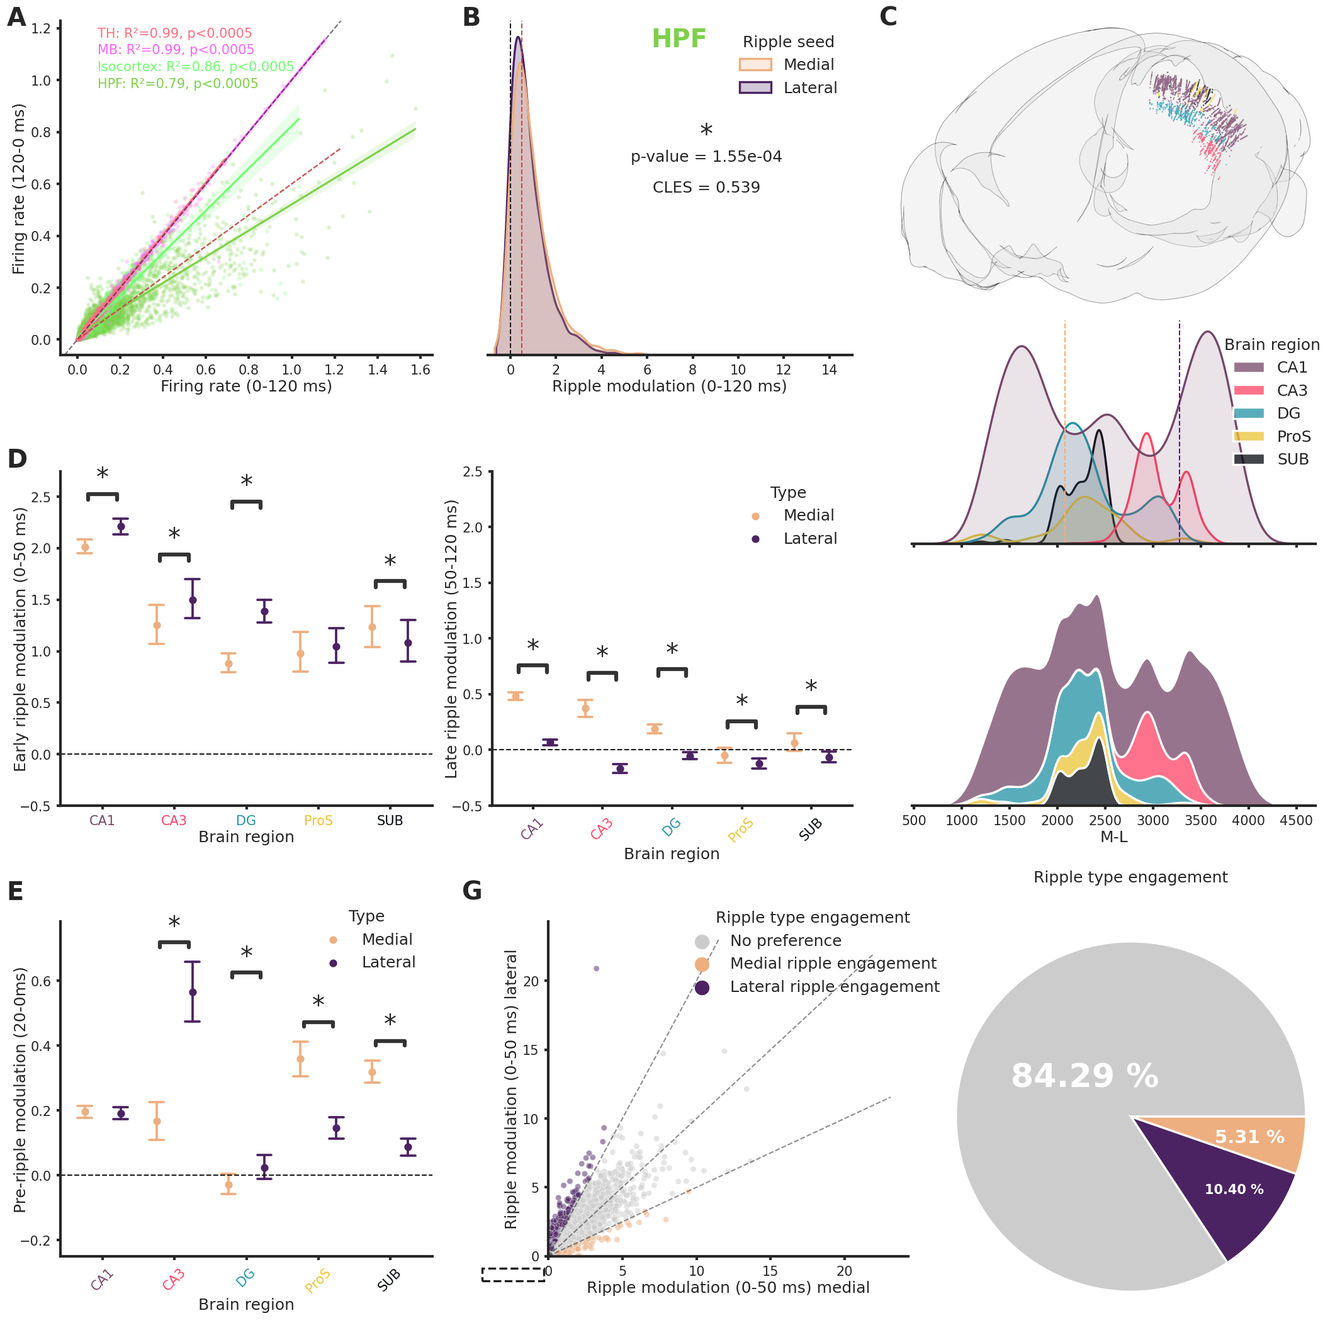
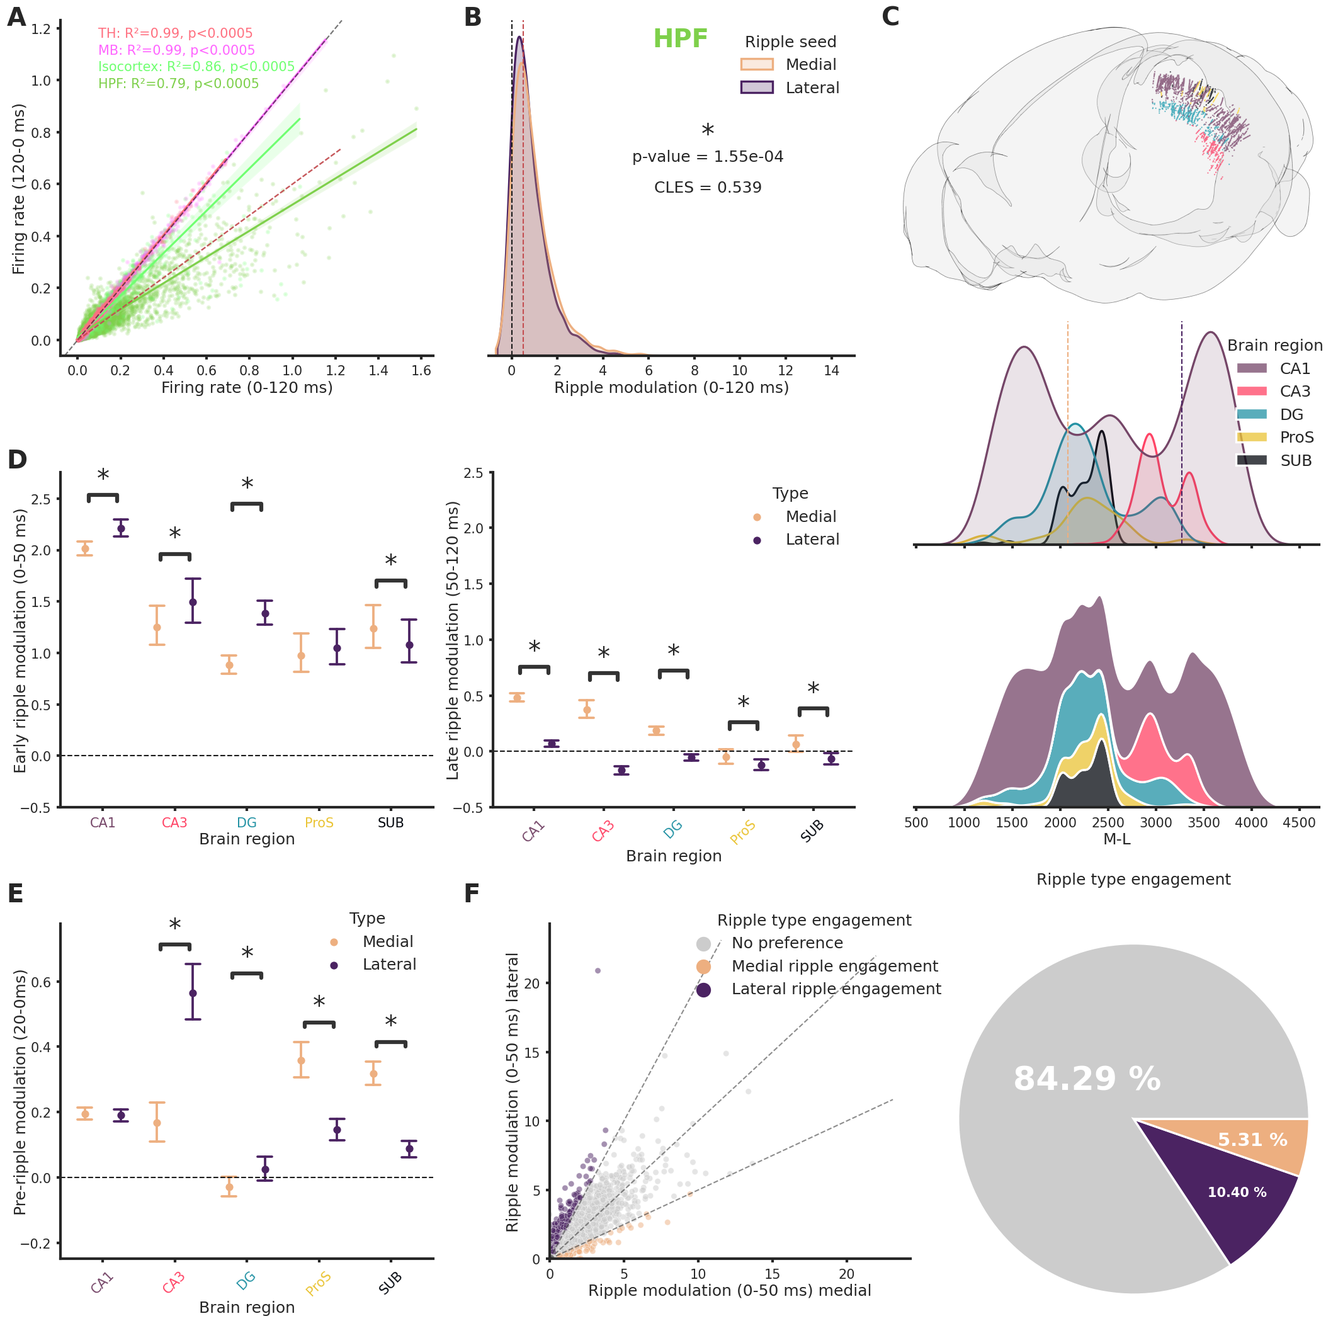
update

diff --git a/Manuscript/results.py b/Manuscript/results.py
@@ -169,33 +169,36 @@ results = {"Distance explains most of the ripple strength correlation variabilit
            f'{round(ripple_mod_sem.loc["Isocortex"]["No engagement"] *100, 2)} %))  while the majority of hippocampal (HPF) neurons showed ripple modulation. '
            f'In both cases the baseline spiking rate explained a big portion of the variance in spiking rate during ripples (Figure 5A).'
            f'(HPF: {round(100-ripple_mod_mean.loc["HPF"]["No engagement"]*100, 2)} ± {round(ripple_mod_sem.loc["HPF"]["No engagement"] *100, 2)} %). Neurons in the cortex'
-           f' that were modulated (at least 50% increase) by both medial and lateral ripples tended to be located in deeper layers, '
+           f' that were both modulated by medial and lateral ripples were generally found in deeper layers, '
            f'whereas neurons modulated more strongly by medial ripples were'
-           f' recorded more superficially. Only a small number of cortical neurons exhibited greater engagement in association with lateral ripples (Supplementary Figure 14). '
+           f' also found in more superficial layers. Only a small number of cortical neurons exhibited greater engagement in association with lateral ripples (Supplementary Figure 14). '
            f' The relationship between'
-           f' baseline spiking and spiking during ripples was similar in medial and lateral ripples (Supplementary Figure 15). Modulation '
-           f'by medial and lateral ripples was significantly different in hippocampal neurons in a 120 ms window post-ripple start altough with a '
-           f'only modest effect size. A stronger effect was observed in the 50-120 ms window, here medial ripples had a notably stronger '
-           f'modulatory effect (Supplementary Figure 16A). A significant difference was also observed in cortical neurons and in TH, also here medial ripples were observed '
-           f'to induce stronger modulation (Supplementary Figure 16B). To gain insight into the mechanism underlying differences between medial and lateral ripples '
-           f'we focused our analysis on modulation in the early (0-50 ms) and late phase (50-120 ms) in different hippocampal subfield (Figure 5C). In the early phase '
-           f'we found a significantly stronger engagement of the dentate gyrus area (DG) and weaker engagement of the subiculum (SUB) by lateral ripples. '
-           f'More differences were found in the late phase: here CA1, CA3, DG and SUB were all more strongly modulated by medial ripples. Clusters recorded in '
-           f'these different brain regions were not homogeneously distributed along the M-L axis therefore potentially influencing the ripple modulation, for example, '
-           f'it is plausible that neurons in close proximity to the medial section may be more susceptible to the influence of medial ripples. To test this hypothesis, '
-           f'we determined the extent to which the variance in modulation can be attributed to the M-L axis position. '
-           f'Our observed that during the early and late phases, the M-L position explained a substantial proportion '
+           f' baseline spiking and spiking during ripples was similar in medial and lateral ripples (Supplementary Figure 15). '
+           f'This similarity accounted for most of the variability observed in all cases. '
+           f'There was a significant difference in modulation of hippocampal neurons by medial and lateral ripples within a 120 ms window after the start of the ripple event. '
+           f'However, the effect size was modest. A stronger effect was observed in the 50-120 ms window, here medial ripples had a notably stronger '
+           f'modulatory effect (Supplementary Figure 16A). Significant differences were also observed in cortical neurons and in TH, with medial ripples '
+           f'inducing stronger modulation (Supplementary Figure 16B). To understand the mechanism underlying these differences between medial and lateral ripples '
+           f'we focused on modulation in the early (0-50 ms) and late phase (50-120 ms) in various hippocampal subfield (Figure 5C). In the early phase '
+           f'we found a significantly stronger engagement of the dentate gyrus (DG), CA1 and CA3 areas and weaker engagement of the subiculum (SUB) by lateral ripples. '
+           f'The late phase analysis revealed further differences, as CA1, CA3, DG, prosubiculum (ProS), and SUB subfields all displayed stronger modulation in response to medial ripples '
+           f'(Figure 5D). '
+           f'The clusters recorded across these various brain regions were not uniformly distributed along the M-L axis, which may have influenced the observed ripple modulation. '
+           f'For instance, it is conceivable that neurons located in closer proximity to the medial section may be more susceptible to the effects of medial ripples. '
+           f'To examine this hypothesis, we evaluated the degree to which variance in modulation could be attributed to the M-L axis position.'
+           f'We observed that during the early and late phases, the M-L position explained a substantial proportion '
            f'of the variance in modulation in CA1 (early: {round(r_sq_ca1.loc["Diff ripple modulation (0-50 ms)", "M-L"]*100, 2)} %, late: '
            f'{round(r_sq_ca1.loc["Diff ripple modulation (50-120 ms)", "M-L"]*100, 2)} %), but only a small proportion in CA3 (early: {round(r_sq_ca3.loc["Diff ripple modulation (0-50 ms)", "M-L"]*100, 2)} %, '
-           f'late: {round(r_sq_ca3.loc["Diff ripple modulation (50-120 ms)", "M-L"]*100, 2)} %) and SUB '
+           f'late: {round(r_sq_ca3.loc["Diff ripple modulation (50-120 ms)", "M-L"]*100, 2)} %) ProS '
+           f'(late: {round(r_sq_pros.loc["Diff ripple modulation (50-120 ms)", "M-L"]*100, 2)} %) and SUB '
            f'(early: {round(r_sq_sub.loc["Diff ripple modulation (0-50 ms)", "M-L"]*100, 2)} %, '
-           f'late: {round(r_sq_sub.loc["Diff ripple modulation (50-120 ms)", "M-L"]*100, 2)} %). The situation was mixed in DG, with a much bigger effect of M-L position'
-           f'in the late phase '
+           f'late: {round(r_sq_sub.loc["Diff ripple modulation (50-120 ms)", "M-L"]*100, 2)} %). In the DG subfield, the situation was mixed, with a notably greater impact '
+           f'of M-L position observed during the late phase '
            f'(early: {round(r_sq_dg.loc["Diff ripple modulation (0-50 ms)", "M-L"]*100, 2)} %, '
            f'late: {round(r_sq_dg.loc["Diff ripple modulation (50-120 ms)", "M-L"]*100, 2)} %).'
            f'Additionally, '
            f'we found that prior to the onset of ripples, medial ripples induced stronger modulation in ProS and SUB, and weaker modulation in CA3 '
-           f'and DG when compared to lateral ripples. In this window, the M-L position explained only a minimal proportion of the variance '
+           f'and DG when compared to lateral ripples (Figure 5E). In this window, the M-L position explained only a minimal proportion of the variance '
            f'in ProS ({round(r_sq_pros.loc["Diff pre-ripple modulation (20-0 ms)", "M-L"]*100, 2)} %), SUB '
            f'({round(r_sq_sub.loc["Diff pre-ripple modulation (20-0 ms)", "M-L"]*100, 2)} %) and CA3 '
            f'({round(r_sq_ca3.loc["Diff pre-ripple modulation (20-0 ms)", "M-L"]*100, 2)} %) but a substantial proportion in DG '
@@ -206,9 +209,15 @@ results = {"Distance explains most of the ripple strength correlation variabilit
            f'To address this question, we identified neurons that exhibited at least a two-fold modulation '
            f'difference for either medial or lateral ripples. Our analysis revealed that the majority of neurons did '
            f'not display a strong preference ({round(autopcts[0]*100,2)} %), whereas {round(autopcts[1]*100,2)} % of neurons responded '
-           f'preferentially to lateral ripples and {round(autopcts[2]*100,2)} % to medial ripples. Hippocampal subfield, however, exhibited '
+           f'preferentially to lateral ripples and {round(autopcts[2]*100,2)} % to medial ripples (Figure 5F). Hippocampal subfield, however, exhibited '
            f'striking differences, specifically, SUB had a negligible proportion of neurons exhibiting a'
            f' preference for medial ripples, while DG exhibited the opposite pattern (Supplementary Figure 19). '
+           f'These results suggest a fundamental difference between medial and lateral ripples in terms of their '
+           f'engagement of brain regions, highlighting that these differences exist even before the ripples are detected. '
+           f'Notably, most of these differences are not explained by the location of the neuron along the M-L axis. '
+           f'This suggests that there are more fundamental differences at play beyond just spatial distance. While the M-L '
+           f'position did explain some of the variance in modulation in certain subfields, such as CA1 and DG, it only accounted '
+           f'for a small proportion of the variance in others, like CA3 and SUB. '
 
 
            }

diff --git a/Manuscript/discussion.py b/Manuscript/discussion.py
@@ -35,12 +35,12 @@ discussion = "Our results show for the first time that strong ripples propagate 
              "Consistent with a duration gradient along the longitudinal axis, the temporal hippocampus has been shown to " \
              "produce shorter ripples both in awake and sleep conditions {Sosa, 2020 #1154}. \n"\
             "What is the reason that enables the septal pole to generate longer ripples? There might be for example underlying electrophysiological" \
-             " differences between the septal and intermediate hippocampus. Looking at units electrophysiological features we found some differences in the waveform shape and " \
-             "duration. We can hypothesize that slower action potentials and, consequentially, " \
+             " differences between the septal and intermediate hippocampus. Upon closer examination of the electrophysiological features of the neurons, " \
+             "we were able to discern significant differences in the shape and duration of their waveform. We can hypothesize that slower action potentials and, consequentially, " \
              "longer refractory periods hinder the ability" \
              " to sustain protracted high frequency spiking. Accordingly, we found an increased firing rate and a smaller waveform duration in putative excitatory " \
-             "neurons of the septal pole. " \
-             "This might contribute to explain the prolonged ripples observed in the septal pole. " \
+             "neurons of the septal pole. Moreover, putative inhibitory neurons in the septal pole showed reduced firing. " \
+             "These differences might contribute to explain the prolonged ripples observed in the septal pole. " \
              "We can also speculate that the neuromodulatory inputs gradient, monoamine fibers have been shown to be stronger in the ventral part {Strange, 2014 #1158}, " \
              "might influence neurons responses. Serotonin {ul Haq, 2016 #1165; Wang, 2015 #1170}, noradrenaline {Ul Haq, 2012 #1166; Novitskaya, 2016 #1171} and acetylcholine {Zhang, 2021 #1167} " \
              "have all been shown to suppress ripples. In accordance with this, some ripples are coupled with a reduced activation of the locus coeruleus" \
@@ -61,5 +61,21 @@ discussion = "Our results show for the first time that strong ripples propagate 
              "Kheirbek, 2013 #1126;McGlinchey, 2018 #1125;Fanselow, 2010 #1150;Maras, 2014 #1130;Bradfield, 2020 #1131;Qin, 2020 #1132}. " \
              "Our results can contribute to explain the specific role of septal hippocampus in memory-demanding tasks with" \
              " its ability of generating particularly long " \
-             "ripples that are able to strongly engage networks in the entire top half of the hippocampal formation for an extended time. " \
+             "ripples that are able to strongly engage networks in the entire top half of the hippocampal formation for an extended time. \n" \
+             "Functional differences between ripples are supported by our finding that the ripple origination point has an influence on the " \
+             "engagement of various hippocampal subfields. Interestingly, even before the onset of ripples, these functional differences can be observed. " \
+             "The results indicate that lateral ripples show significant engagement of CA3, which aligns with the traditional view that CA3 is the primary " \
+             "generator of ripples {Buzsáki, 1986 #1196, Buzsáki, 1989 #1197, Csicsvari, 2000 #1195}. On the other hand, medial ripples demonstrate stronger engagement of ProS and " \
+             "SUB subfields, supporting the more recent " \
+             "hypothesis that output structures in the hippocampus are also capable of generating ripples {Imbrosci, 2021 #1194}. These functional differences may have important " \
+             "implications for our understanding of hippocampal network dynamics and their contribution to memory processing. The fact that different " \
+             "subfields are preferentially engaged during different types of ripples suggests that different ripple patterns may play distinct roles " \
+             "in memory processing. Additionally, the finding that lateral ripples exhibit stronger engagement of CA3 before the onset of ripples suggests " \
+             "that CA3 may play a more critical role in initiating lateral ripples. In contrast, the stronger engagement of ProS and SUB subfields before " \
+             "medial ripple onset suggests that these structures may be involved in the initiation of medial ripples. " \
+             "These differences in ripple initiation and engagement patterns provide insights into the underlying mechanisms of " \
+             "hippocampal network dynamics and their potential role in memory processing. " \
+             "Understanding these differences may shed light on the functional significance " \
+             "of ripples in the brain and their role in memory consolidation and retrieval. \n" \
+
 

diff --git a/Figures/legends_supplementary.py b/Figures/legends_supplementary.py
@@ -101,7 +101,42 @@ legends_supplementary = {
       f"(D) Cumulative distribution plot of waveform duration (p-value={'{:.2e}'.format(p_val_ks_wav_dur_exc)}), firing rate (p-value={'{:.2e}'.format(p_val_ks_fir_rate_exc)}), "
       f"waveform amplitude (p-value={'{:.2e}'.format(p_val_ks_wav_amp_exc)}), waveform repolarization slope (p-value={'{:.2e}'.format(p_val_ks_wav_repolarization_slope_exc)}), "
       f"waveform recovery slope (p-value={'{:.2e}'.format(p_val_ks_wav_rec_slope_exc)}) and waveform peak-through ratio (p-value={'{:.2e}'.format(p_val_ks_wav_PT_ratio_exc)}) grouped by hippocampal section."
-      "Asterisks mean p < 0.05, Kolgomorov-Smirnov test."
+      "Asterisks mean p < 0.05, Kolgomorov-Smirnov test.",
+
+"Supplementary Figure 14. Cortical clusters showing ripple engagement":
+    "In pink clusters showing medial ripples engagement, in purple clusters showing lateral ripples engagement and in red clusters showing "
+    "engagement both in medial and lateral ripples.",
+
+"Supplementary Figure 15. Cortical clusters showing ripple engagement":
+    "(A) Relationship between baseline (120 ms before ripple start) and medial ripple (0-120 ms) firing rate for clusters recorded in  HPF, Isocortex, MB and TH. Dashed black line represents absence of any influence, "
+           "dashed red line represents a 50% increased spiking rate. "
+    "(B) Relationship between baseline (120 ms before ripple start) and lateral ripple (0-120 ms) firing rate for clusters recorded in  HPF, Isocortex, MB and TH. Dashed black line represents absence of any influence, "
+           "dashed red line represents a 50% increased spiking rate. ",
+
+"Supplementary Figure 16. Ripple modulation across HPF, Isocortex, MB and TH":
+"(A) Left: Early (0-50 ms) ripple modulation of hippocampal clusters in response to lateral and medial ripples. Dashed black line represents absence of any influence, "
+           "dashed red line represents a 50% increased spiking rate. Wilcoxon signed-rank test. Right: "
+"Late (50-120 ms) ripple modulation of hippocampal clusters in response to lateral and medial ripples. Dashed black line represents absence of any influence, "
+           "dashed red line represents a 50% increased spiking rate. Wilcoxon signed-rank test. "
+"(B) Ripple modulation of cortical (left), MB (middle) and TH (right) clusters in response to lateral and medial ripples. Dashed black line represents absence of any influence, "
+           "dashed red line represents a 50% increased spiking rate. Wilcoxon signed-rank test",
+
+"Supplementary Figure 17. Ripple modulation across HPF, Isocortex, MB and TH":
+"(A) Ripple modulation in response to lateral and medial ripples during the early  "
+           "ripple phase in cortical (top), MB (middle) and TH (bottom) clusters. Wilcoxon signed-rank test or Student's t-test (if normality established). "
+"(B) Ripple modulation in response to lateral and medial ripples during the late  "
+           "ripple phase in cortical (top), MB (middle) and TH (bottom) clusters. Wilcoxon signed-rank test or Student's t-test (if normality established). ",
+
+"Supplementary Figure 18. Pre-ripple modulation across HPF, Isocortex, MB and TH":
+"(A) Pre-ripple modulation in response to lateral and medial ripples during the early  "
+           "ripple phase in cortical clusters. Wilcoxon signed-rank test or Student's t-test (if normality established). "
+"(B) Ripple modulation in response to lateral and medial ripples during the late  "
+           "ripple phase in MB clusters. Wilcoxon signed-rank test or Student's t-test (if normality established). " \
+"(C) Ripple modulation in response to lateral and medial ripples during the late  "
+           "ripple phase in TH clusters. Wilcoxon signed-rank test or Student's t-test (if normality established). ",
+
+"Supplementary Figure 19. Clusters preference in ripple engagement by hippocampal subfields.":
+    "Preference in ripple engagement in CA1, CA3, DG, ProS and SUB."
 }
 
 if Adapt_for_Nature_style is True:

diff --git a/Figures/legends.py b/Figures/legends.py
@@ -106,7 +106,22 @@ legends = {"Figure 1. Ripple strength correlation depends significantly on dista
             f"{round(fig_4_summary_spiking_late[fig_4_summary_spiking_late['Location seed'] == 'Medial seed']['Spiking rate per 10 ms'].sem(), 3)}, "
             f"late/lateral seed = {round(fig_4_summary_spiking_late[fig_4_summary_spiking_late['Location seed'] == 'Lateral seed']['Spiking rate per 10 ms'].mean(), 2)} ± "
             f"{round(fig_4_summary_spiking_late[fig_4_summary_spiking_late['Location seed'] == 'Lateral seed']['Spiking rate per 10 ms'].sem(), 3)}, "
-            f"p-value = {'{:.2e}'.format(fig_4_ttest_late_spiking['p-val'].values[0])}, Student's t-test."}
+            f"p-value = {'{:.2e}'.format(fig_4_ttest_late_spiking['p-val'].values[0])}, Student's t-test.",
+
+           "Figure 5. Ripple seed location influences the pattern of ripple modulation across various regions of the brain.":
+           "(A) Relationship between baseline (120 ms before ripple start) and ripple (0-120 ms) firing rate for clusters recorded in Isocortex, HPF, TH and MB. Dashed black line represents absence of any influence, "
+           "dashed red line represents a 50% increased spiking rate. "
+           "(B) Ripple modulation of hippocampal clusters in response to lateral and medial ripples. Dashed black line represents absence of any influence, "
+           "dashed red line represents a 50% increased spiking rate. Wilcoxon signed-rank test. "
+           "(C) Top: Rendering of all clusters recorded in the hippocampal formation color-coded by subfield. Middle: kernel density plot showing "
+           "distribution of clusters along the M-L axis, Dashed lines represents medial and lateral limits. Bottom: Stacked kernel density plot showing "
+           "distribution of clusters along the M-L axis. "
+           "(D) Ripple modulation in response to lateral and medial ripples during the early (left) and late (right) "
+           "ripple phase. Wilcoxon signed-rank test or Student's t-test (if normality established). "
+           "(E) Ripple modulation in response to lateral and medial ripples before ripple start (20 ms). Wilcoxon signed-rank test or Student's t-test (if normality established). "
+           "(F) Left: Relationship between modulation by lateral and medial ripples. Dashed black line represents absence of difference and two-fold differences in both directions. "
+           "Right: Pie chart representing hippocampal neurons preference in ripple engagement."
+           }
 
 
 if Adapt_for_Nature_style is True:

diff --git a/Manuscript/abstract.py b/Manuscript/abstract.py
@@ -18,7 +18,11 @@ abstract = "Hippocampal ripples are highly synchronous neural events critical fo
            " longer ripples that engage more neurons " \
            "and elicit spiking activity for an extended time even at considerable distances. " \
            "Accordingly, a substantial portion of the variance in strong ripple duration" \
-           f" (R² = {r_strong}) is explained by the ripple generation location on the longitudinal axis. " \
-           "Our results are consistent with a possible distinctive role of the hippocampal septal pole in conditions of high memory demand. "
+           f" (R² = {r_strong}) is explained by the ripple generation location on the longitudinal axis, " \
+           f"in agreement with a possible distinctive role of the hippocampal septal pole in conditions of high memory demand. " \
+           f"Moreover, we observed that the location of the ripple generation has a significant " \
+           f"impact on the modulation of individual neurons in different hippocampal subfields, even before the onset of the ripple. " \
+           f"This finding suggests that the ripple generation location plays a crucial role in shaping the neural activity in the hippocampus. " \
+
 
 #%%

diff --git a/Figures/Figure_5/Figure_5.py b/Figures/Figure_5/Figure_5.py
@@ -51,9 +51,9 @@ plt.figure(1).text(0.34582743988684583, 0.980905233380481, 'B', transform=plt.fi
 plt.figure(1).text(0.6584158415841584, 0.980905233380481, 'C', transform=plt.figure(1).transFigure, weight='bold')  # id=plt.figure(1).texts[3].new
 plt.figure(1).text(0.0049504950495049506, 0.6499292786421497, 'D', transform=plt.figure(1).transFigure, weight='bold')  # id=plt.figure(1).texts[4].new
 plt.figure(1).text(0.0049504950495049506, 0.32602545968882596, 'E', transform=plt.figure(1).transFigure, weight='bold')  # id=plt.figure(1).texts[5].new
-plt.figure(1).text(0.3458274398868458, 0.32602545968882596, 'G', transform=plt.figure(1).transFigure, weight='bold')  # id=plt.figure(1).texts[6].new
+plt.figure(1).text(0.3458274398868458, 0.32602545968882596, 'F', transform=plt.figure(1).transFigure, weight='bold')  # id=plt.figure(1).texts[6].new
 #% end: automatic generated code from pylustrator
-plt.show()
+#plt.show()
 
 if Adapt_for_Nature_style is True:
     Naturize()
